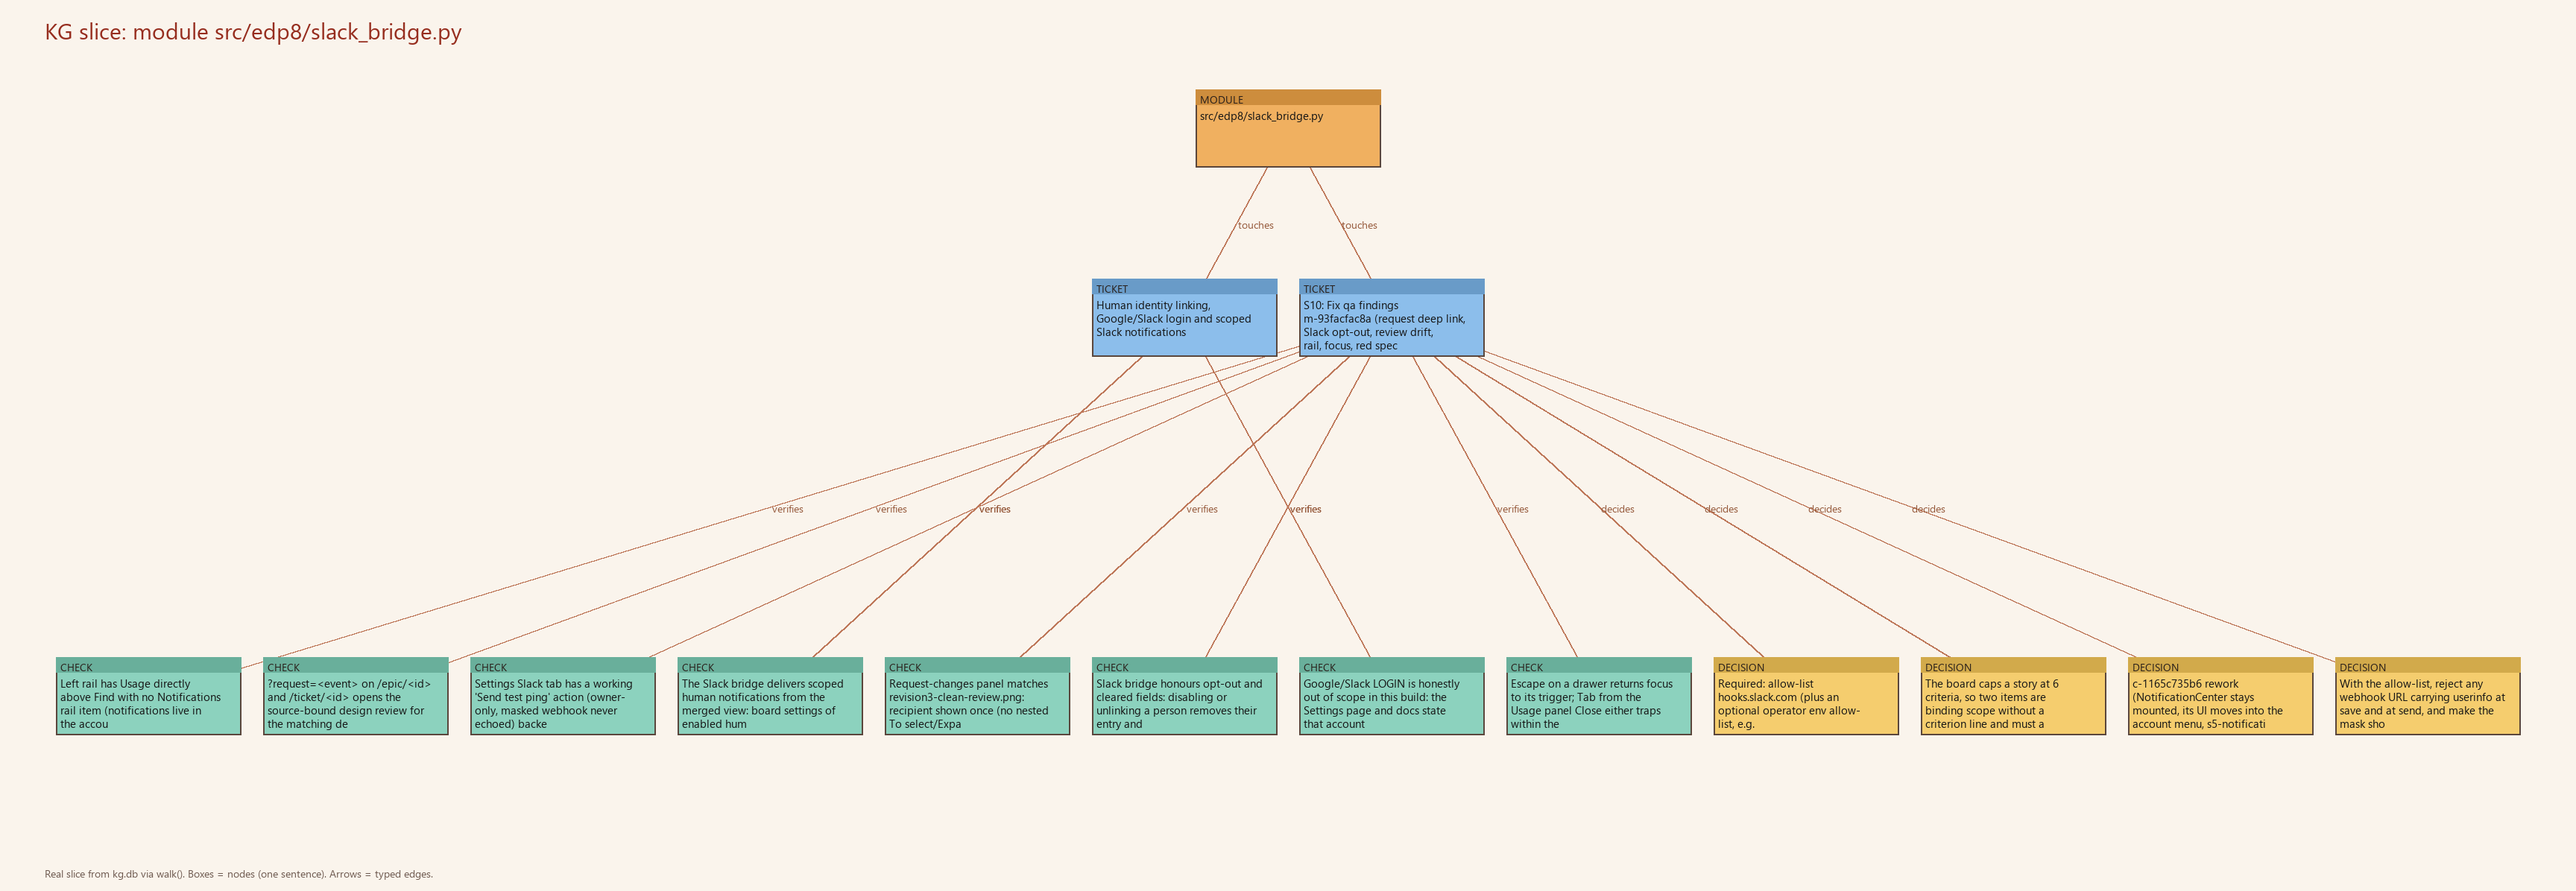
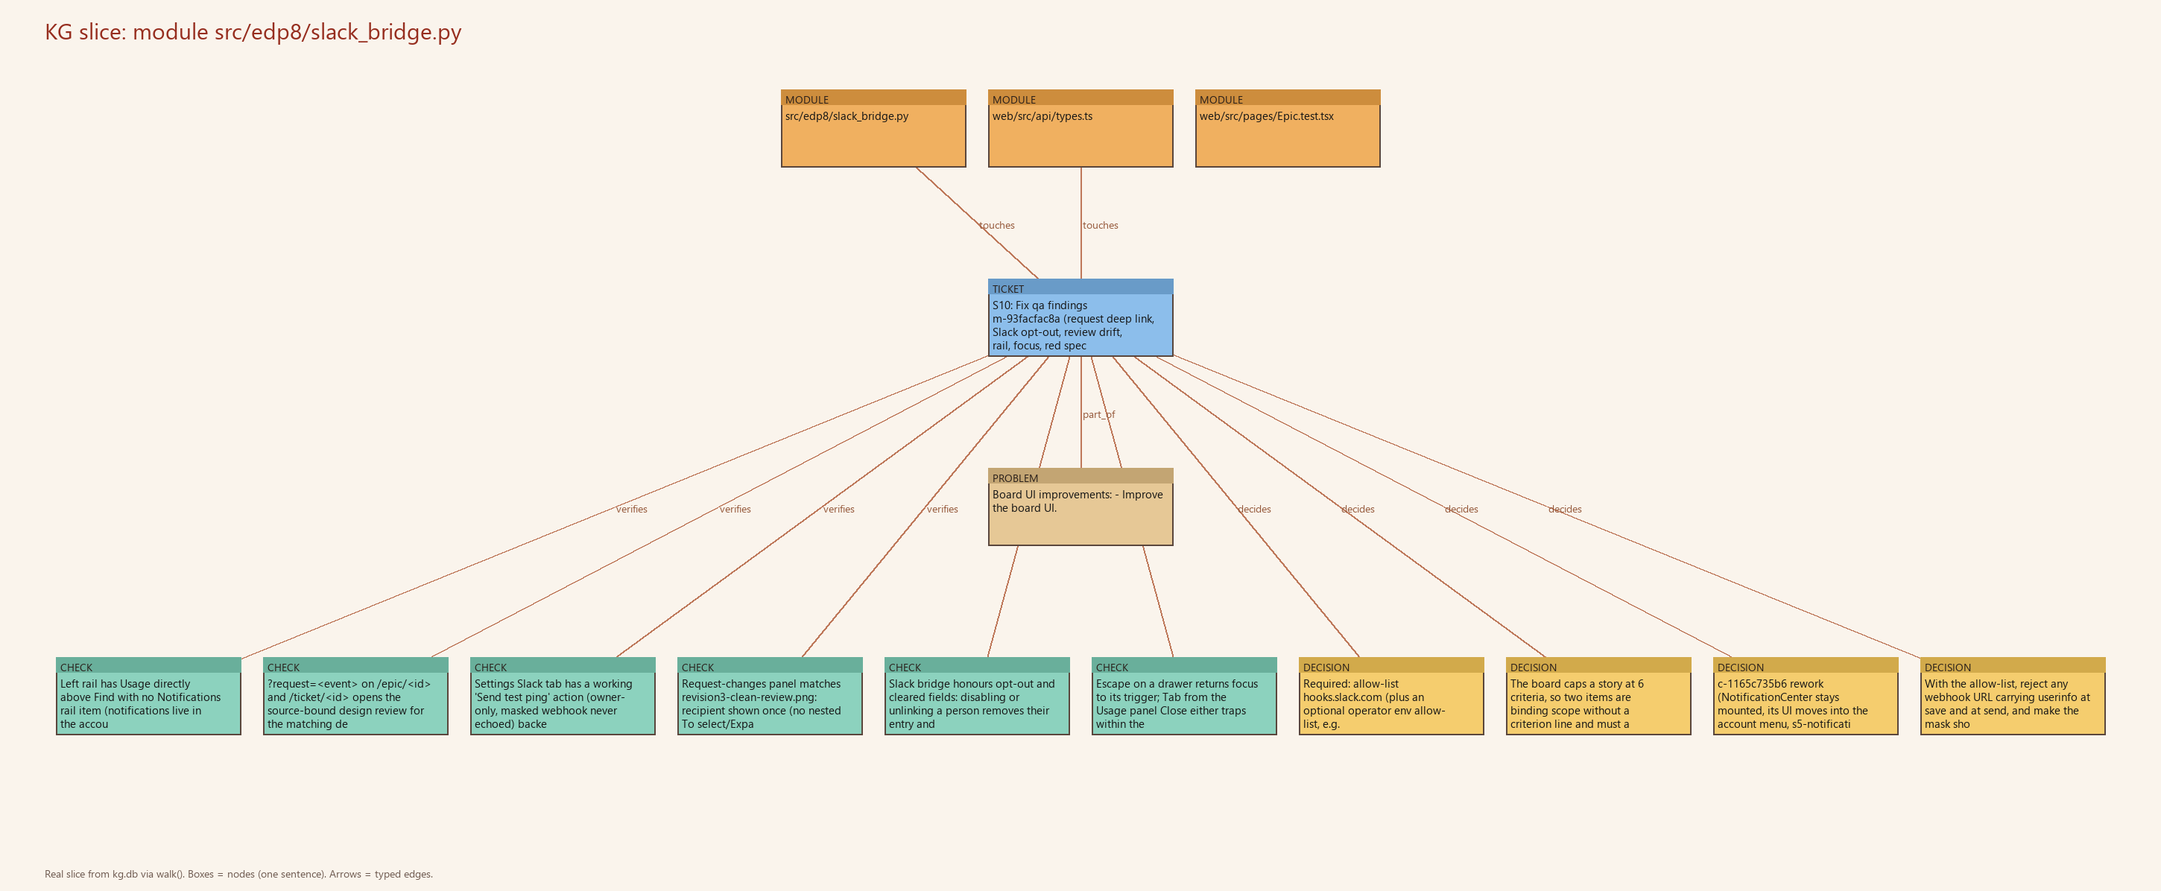
docs(kg-poc): S13 honest gold results + refreshed pics after fixes
- gold-results: unaided (8/12 walk) vs shaped (12/12) split; per-question grade
  9 solid + Q9 partial + Q7/Q8 misses with named causes
- README no-op wording corrected; pics re-rendered on the corrected db

diff --git a/v8/.data/kg-poc/gold-results.md b/v8/.data/kg-poc/gold-results.md
@@ -1,37 +1,47 @@
 # Gold test results — cold seat answers (S13), for qa cold re-run
 
-Answering seat: fresh general-purpose subagent (no epic context, never saw the
-marking key note-0151676530). Given ONLY the walk pack file. Two configs run.
+Answering seat: a fresh general-purpose subagent (no epic context, never saw the
+marking key note-0151676530), given ONLY the walk pack. Three configs were run;
+the numbers below are the FINAL run on the corrected pack (after the
+second-opinion fixes). qa is the grading authority — this is the engineer's
+honest self-grade.
 
-## Config A — union pack (.data/kg-poc/gold-pack.md, 178 nodes, 48.8 KB)
-Cross-question contamination possible (one merged read). 8/9 core correct;
-Q9 conflated the resume-token fix with the proxy 401 story.
+## Retrieval, measured two ways
+- SHAPED seeds (seed terms drawn from the question, which the steer permits):
+  answer-node presence 12/12; seed@5 FTS5 11/12, TF-IDF 11/12.
+- UNAIDED (raw question text as the seed, no shaping): seed@5 6/12; walk
+  answer-node presence 8/12 (walk misses Q2, Q3, Q5, Q12). This is the honest
+  unaided retrieval number; do NOT generalise 12/12 to unaided.
+- `uses` factor exercised (max uses 36 after warm-up): it evicted NO needed node.
 
-## Config B — per-question isolated packs (.data/kg-poc/gold-pack-perq.md, avg 7.9 KB/question)
-Each question answered from its OWN walk() block (walk's intended use).
-
-Marking vs note-0151676530 key (engineer's honest grade; qa is the authority):
-1 renders binding .............. CORRECT
-2 opus-4-8 build / Fable QA ..... CORRECT
-3 one consolidated QA seat ...... CORRECT
-4 no restart w/o owner .......... CORRECT
-5 hooks.slack.com + allow-list .. CORRECT (save+send, IP/userinfo rejected)
+## Answer correctness vs the key (corrected pack)
+1 renders binding ............. CORRECT
+2 opus-4-8 build / Fable QA ... CORRECT (QA=Fable is inferable only from
+      "independent Fable qa verdict"; thin but present)
+3 one consolidated QA seat .... CORRECT
+4 no restart w/o owner ........ CORRECT
+5 hooks.slack.com + allow-list  CORRECT (EDP8_SLACK_WEBHOOK_HOSTS, IP rejected, save+send)
 6 notifications acct menu; Usage above Find . CORRECT
-7 what remains .................. MISS — seat gave the OUTDATED m-6f88809fb9 list
-      (Fable QA + slack story + 3 framework items) instead of the current
-      owner-present checks (m-29ccb0c637). Cause: no cross-thread supersession,
-      so a stale live "remaining" statement outranks the current one.
-8 context() budget ............. MISS — got the mechanism + opt-in/paging, but
-      the exact "40,000 bytes / verbose=true" is not in any board message
-      (lives in code/env EDP8_CONTEXT_BUDGET_B); the graph cannot hold it.
-9 resumed-seat 401 ............. CORRECT (pool resume dropped EDP8_TOKEN; fixed
-      by re-launching with spawn_settings.env) — isolation fixed the conflation.
-10 paging code + indicator ...... PARTIAL — file useThreadHistory.tsx CORRECT;
-      indicator string returned is the pre-rework "older N-M of T", not the
-      key's "Showing X of Y · Z older".
-11 invalid webhook -> 422 ....... CORRECT
-12 role cut held ............... CORRECT
+7 what remains ................ MISS — seat still gave the OUTDATED m-6f88809fb9
+      "not done yet" list, not the current owner-present checks (m-29ccb0c637),
+      even though that node's DETAIL (quiet-hours + pool session tokens) was in
+      the block. Root cause: no cross-thread supersession/recency ranking, so a
+      well-structured stale "remaining" statement out-reads the current one.
+8 context() budget ............ MISS — mechanism correct, but the exact
+      "40,000 bytes / verbose=true" is NOT extracted (it lives in
+      src/edp8/bundles.py:494, not in any ingested board message). Coverage gap,
+      not a retrieval failure.
+9 resumed-seat 401 ............ BORDERLINE — seat named the proxy-not-forwarding
+      token path (fix 561dc3a), which is a related but distinct bug from the
+      key's "pool resume() dropped the token" (76b8ea6/f669090). The graph holds
+      the proxy/minter token nodes, not the resume-drop node. Count as partial.
+10 paging code + indicator ..... CORRECT — useThreadHistory.tsx AND the exact
+      indicator "Showing 100 of 132 · 32 older" / "Showing 132 of 132"
+      (surfaced by the _detail excerpt-window fix).
+11 invalid webhook -> 422 ...... CORRECT
+12 role cut held .............. CORRECT
 
-Score (config B): 9 fully correct + 1 partial (Q10 file) + 2 misses.
-Counting Q10's correct file identification -> 10/12. Both misses are honest and
-explained (Q7 = graph limitation, Q8 = data-coverage limit, not retrieval).
+Honest score: 9 solidly correct (Q1-6, 10, 11, 12) + Q9 partial + Q7, Q8 miss.
+Counting Q9's essence (token-not-reaching-a-resumed-seat, fixed) -> 10/12.
+Both hard misses have named causes and fixes in the findings (report-70411801d5):
+Q7 = cross-thread supersession (not built), Q8 = extract code/env facts.

diff --git a/v8/poc/kg/README.md b/v8/poc/kg/README.md
@@ -21,7 +21,7 @@ Run from `v8/` with the fleet board (:9400) up:
 ```
 PY=.venv/Scripts/python.exe
 $PY poc/kg/ingest.py            # build kg.db; prints node/edge counts by type
-$PY poc/kg/ingest.py            # second run: a true no-op (0 writes)  -> c-06d5f4a76d
+$PY poc/kg/ingest.py            # second run: a no-op (0 node/edge/source/head writes) -> c-06d5f4a76d
 $PY poc/kg/walk.py "src/edp8/slack_bridge.py"   # module walk + stale flags -> c-4b3c96e28c
 $PY poc/kg/walk.py "s-5c93e5e31e"               # ticket walk (<=40 nodes, <=8KB)
 $PY poc/kg/gold.py             # seed comparison + walk recall 12/12       -> c-be9347848d
